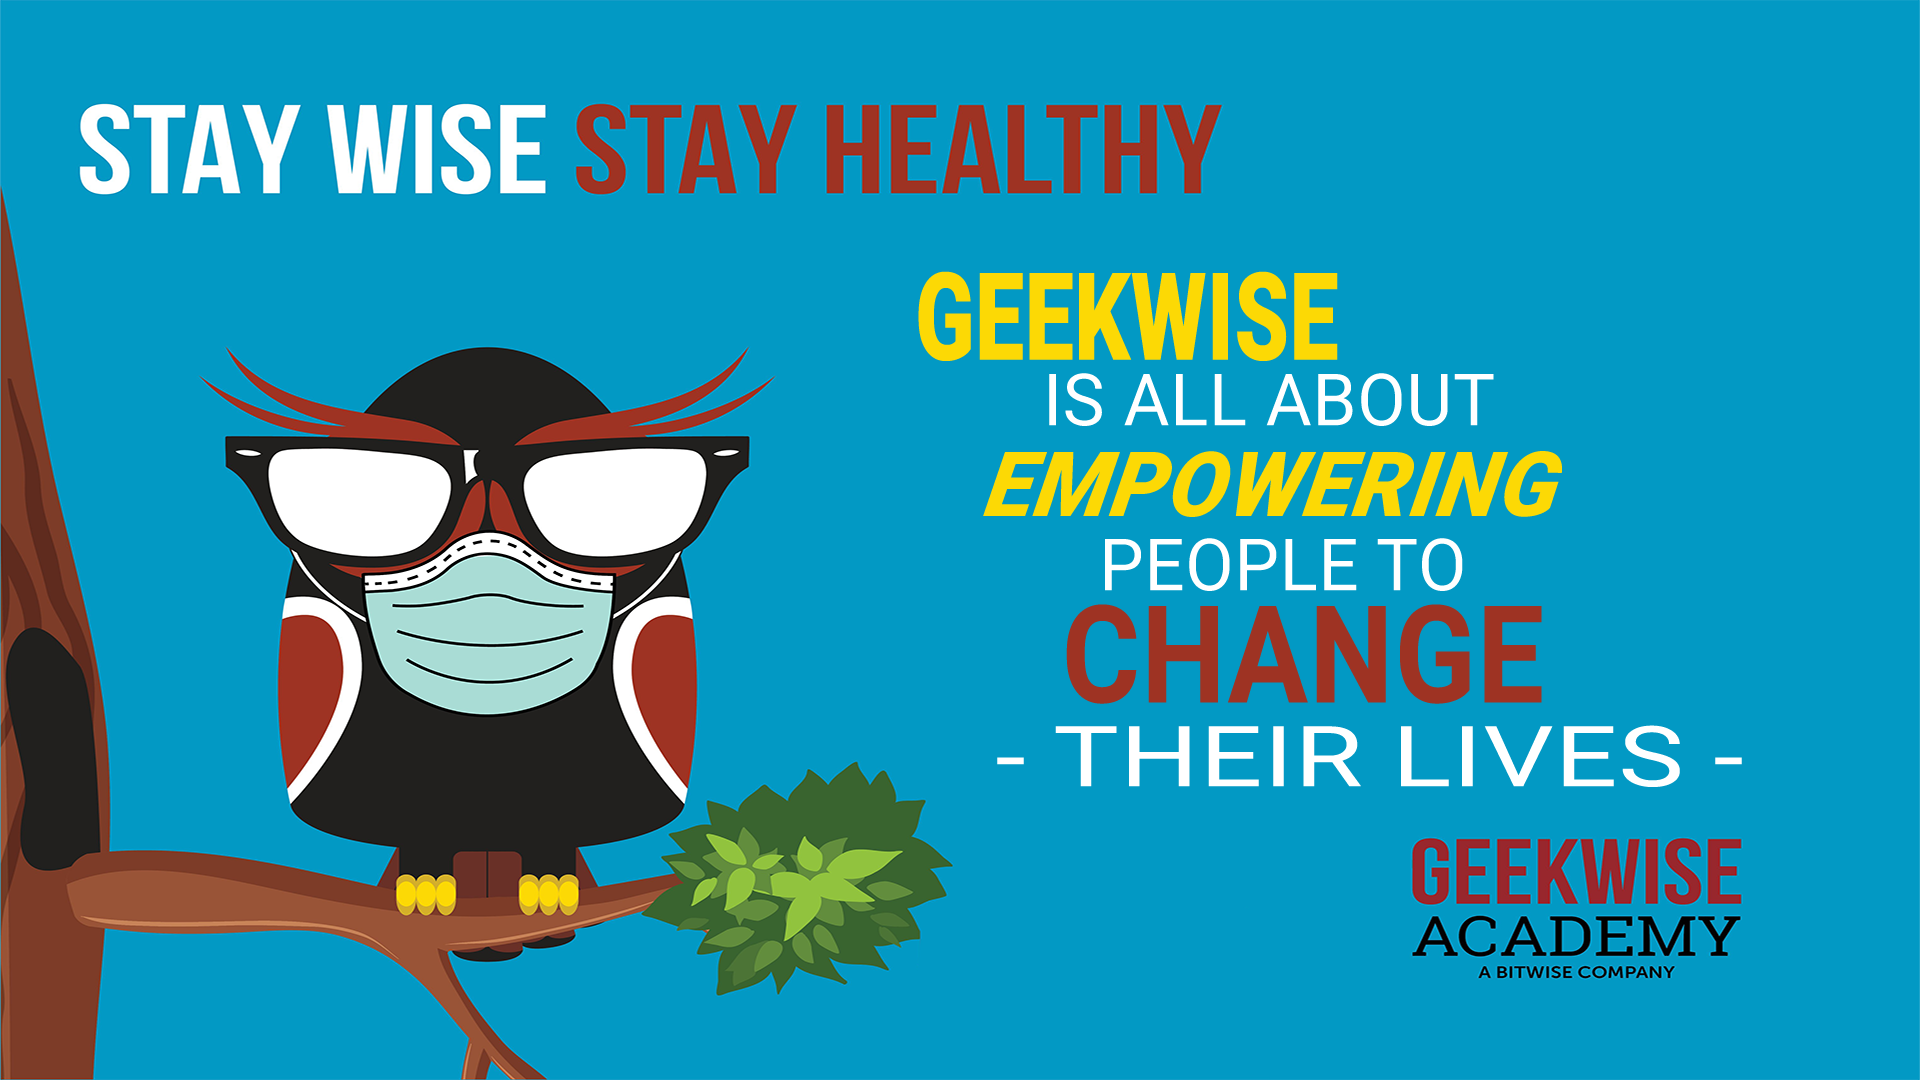
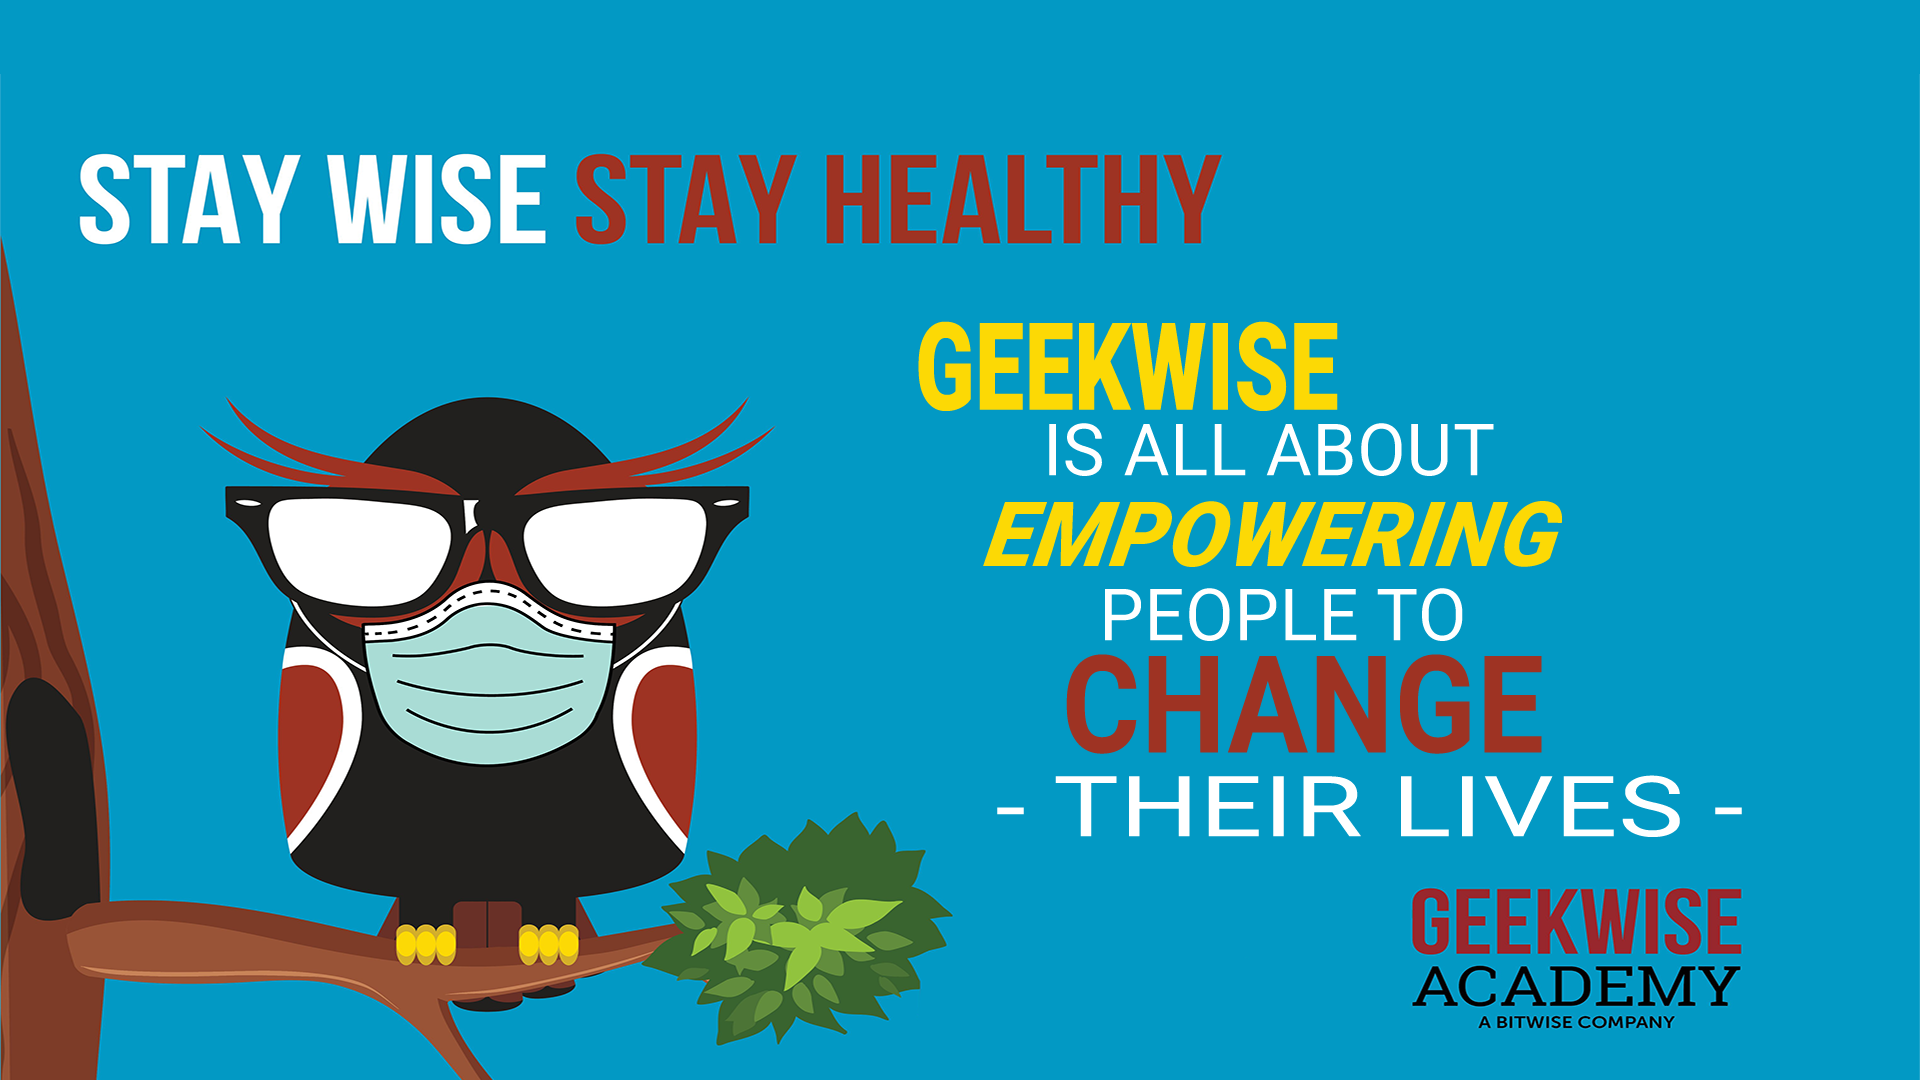
modified background img and changed background-colors in columns

Changed region(s): [[0.0, 0.0917, 0.9062, 1.0], [0.0312, 0.9778, 0.0625, 1.0]]

diff --git a/index.html b/index.html
@@ -7,22 +7,22 @@
     <title>Document</title>
 </head>
 <body>
-    <h1>Hiiiii bellow are three equal columns</h1>
+    <!-- <h1>Hiiiii bellow are four equal columns</h1> -->
 
 <div class="row">
-    <div class="column" style="background-color:#aaa;">
+    <div class="column" style="background-color: #1c4966">
       <h2>I</h2>
       <p></p>
     </div>
-    <div class="column" style="background-color:#bbb;">
+    <div class="column" style="background-color:#296d98;">
       <h2>Love</h2>
       <p></p>
     </div>
-    <div class="column" style="background-color:#ccc;">
+    <div class="column" style="background-color:#3792cb;">
       <h2>Geekwise</h2>
       <p></p>
     </div>
-    <div class="column" style="background-color:#ddd;">
+    <div class="column" style="background-color:#45b6fe;">
       <h2>Acadamy</h2>
       <p></p>
     </div>

diff --git a/stylesheet.css b/stylesheet.css
@@ -1,3 +1,7 @@
+body {
+    background-image: url("/img/geekwise-stay-healthy.png");
+}
+
 * {
     box-sizing: border-box;
   }
@@ -7,7 +11,7 @@
     float: left;
     width: 25%;
     padding: 10px;
-    height: 300px; 
+    /* height: 300px;  */
   }
   
   /* Clear floats after the columns */
@@ -15,3 +19,11 @@
     display: table;
     clear: both;
   }
+
+ h1 {
+    color: #ffffff;
+}
+
+h2 {
+    color: #ffffff;
+}
